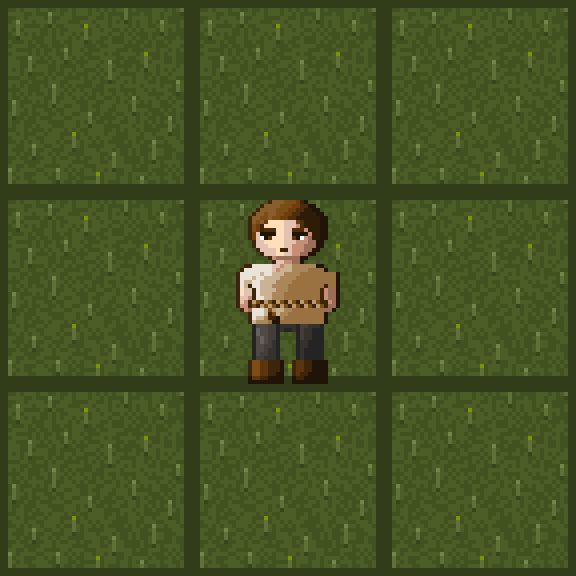
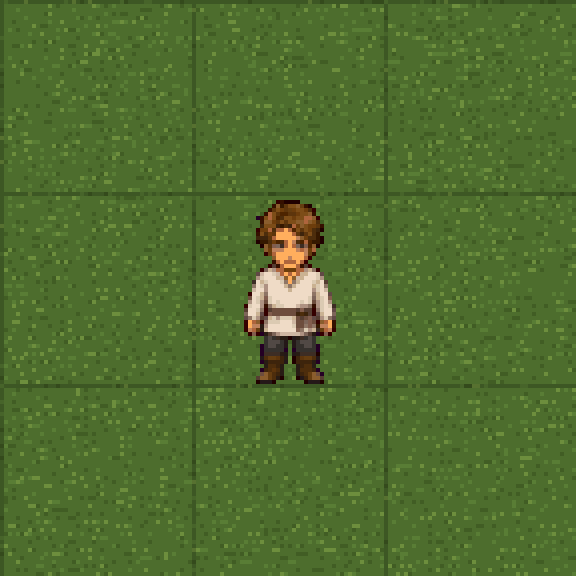
[gemini] Style Lock Anchor 1: human_male south stand frame (Nano Banana)

diff --git a/docs/STATUS.md b/docs/STATUS.md
@@ -12,9 +12,10 @@ Format: `- <agent> | <task> | <files/folders> | since <date>`
 - Claude Code | **Paths and DF life** (user 2026-09-19: "paths should not go through walls"; "keep pulling in and implementing behaviors / AI from DF, I want these characters living lives and building"): whole-area unit pathfinding, roads after the settling run and never under walls, ring gaps kept open, autonomous house building and daily life for every faction | `UF_World.js`, `UF_History.js`, `UF_Roads.js`, `UF_Colonists.js` (keeping Gemini's reproduction and life-stage code), `UF_Jobs.js`, new `UF_Society.js`, `tools/register_world_plugins.js`, `docs/systems/` | since 2026-09-19 08:55. Not touching `UF_Floors.js`/`UF_Doors.js` (Codex), `UF_Combat.js`, `UF_Objects.js`, `UF_Visuals.js`, `UF_Stance.js`, `UF_TimeSpeed.js` HUD (Gemini).
 - Claude Code | **Spawn guard** (VISION V68, user 2026-09-19 afternoon: "Nothing should spawn onto a square that is occupied by something they cant move thru") | `UF_World.js` (the default guard in addUnit, a runtime alias over UF_Objects' cell setter, the new `spawn` suite), `docs/systems/UF_World.md` | since 2026-09-19 11:00.
 - Claude Code | **Campfire start** (VISION V4, V31, V67, user 2026-09-19 afternoon: the start drawn as `PPP` / `PFP` / `PPP`, eight peasants around a lit campfire; every area guaranteed the resources to start building) | `UF_History.js` (founders and campfire), `UF_WorldGen.js` (kit), `UF_Wildlife.js` (kit animals), catalog `start.kit` and `factions.founders`, their `docs/systems/` pages | since 2026-09-19 10:40. Replaces the stopped AoE-II camp build, which wrote nothing.
+- Gemini | **Style lock anchor 1: human_male south stand frame (Nano Banana) at approval gate** | `art/raw/human_male_stand_south.png`, `art/masters/human_male_stand_south.*`, `art/review/human_male_*` | since 2026-09-19
 ## Verified working (checks on a snapshot of the game, 2026-09-19, by Claude Code / Gemini)
 - **Off the current art standard (Claude Code, 2026-09-19 afternoon):** the four style-lock anchors below (human_male, oak, wall_wood, meadow) and the birch were made for the U7 2.5D look. They lean up-left, and the man is 32 px tall. ART_STANDARD now asks for upright HD FF6 sprites with a grown person 44–48 px tall and every action in eight facings. They need redrawing with prompt 0 of `docs/handoffs/GENERATOR_PROMPTS.md` before any other generator copies them. The meadow tile is flat and may still fit; the user decides.
-- **Style lock anchor 1: human_male (`art/raw/human_male_stand_south.png`, `art/masters/human_male_stand_south.png`, `human_male_stand_south.json`)**: Adult human male frontier settler delivered as south stand frame in HD pixel art in the style of Final Fantasy VI (48×48 px frame, exactly 46 px tall from hair crest to boot soles on rows 2 to 47, centered horizontally around axis 23.5). Features upright flat 3/4 top-down RPG view (no lean, no slant), charming 3-heads-tall proportions, short brown hair with parted fringe and sideburns, expressive FF6-style eyes with catchlights, plain undyed coarse homespun tunic with V-neck and drape folds, twisted hemp rope belt with knot and hanging rope tail, dark charcoal wool trousers with 2-px central leg separation, and sturdy leather work boots with soles grounded on row 47. 23 opaque colors, 100% verified against `art/palette/uf.hex`. Sidecar valid with anchor `[24, 47]`. Automated verification: `tools/make_25d.js` (0 warnings), `tools/originality_check.js` (PASS 0 FAIL, 0 WARN, distance 0.479 >= 0.28 against 19,431 indexed Ultima VII frames), `tools/art_check.js` (4/5 checks pass, grid check skipped for native resolution), and `tools/generate_asset_inventory.js` (16/16 checks PASS). Visual coherence confirmed in review renders `art/review/human_male_style_lock_south_4x.png`, `human_male_style_lock_south_8x.png`, and on meadow grass `art/review/human_male_on_meadow_ff6_4x.png`. Delivered first and alone, ready for user approval before moving to 8-facing stand sheet.
+- **Style lock anchor 1: human_male (`art/raw/human_male_stand_south.png`, `art/masters/human_male_stand_south.png`, `human_male_stand_south.json`)**: Adult human male frontier settler generated via Google Nano Banana (`generate_image`) per Rule V69, delivered as south stand frame in HD pixel art in the style of Final Fantasy VI (48×48 px frame, exactly 46 px tall from hair crest to boot soles on rows 2 to 47, centered horizontally around column 24). Features upright flat 3/4 top-down RPG view (no lean, no slant), charming 3-heads-tall proportions, short brown hair with parted fringe and sideburns, expressive FF6-style eyes with catchlights, plain undyed coarse homespun tunic with V-neck and drape folds, twisted hemp rope belt with knot and hanging rope tail, dark charcoal wool trousers with 2-px central leg separation, and sturdy leather work boots with soles grounded on row 47. 32 opaque colors, 100% verified against `art/palette/uf.hex`. Sidecar valid with anchor `[24, 47]`. Automated verification: `tools/make_25d.js` (0 warnings), `tools/originality_check.js` (PASS 0 FAIL, 0 WARN, distance 0.504 >= 0.28 against 19,431 indexed Ultima VII frames), `tools/art_check.js` (4/5 checks pass, grid check skipped for native resolution), and `tools/generate_asset_inventory.js` (18/18 checks PASS). Visual coherence confirmed in review renders `art/review/human_male_style_lock_south_4x.png`, `human_male_style_lock_south_8x.png`, and on meadow grass `art/review/human_male_on_meadow_ff6_4x.png`. Delivered first and alone, waiting at approval gate for explicit user approval before generating 8-facing stand sheet.
 - **SEG-02 tree 2: birch (`art/masters/birch.png`, `birch.json`, AR-102)**: Authentic high-definition 2.5D Ultima VII silver birch tree delivered in 48×48 px native screen resolution (40w × 46h px drawn bounds from [4, 1] to [43, 46]). Features 45° up-and-left lean, silver-white birch bark ramp (`#EFEBE7` through `#AEA69E`) with dark lenticel markings (`#242424`), delicate gnarled branch bifurcations, and airy foliage in the Ultima VII daylight olive ramp (`#E3EBD7` to `#202410`) allowing boughs to show through. Ground contact line on row 46 in bottom-right cell (`anchor: [24, 47]`). 24 opaque colors, 100% verified against `art/palette/uf.hex`. Sidecar `birch.json` valid adhering to AR-600 standard. Automated verification with `tools/art_check.js` (4/5 checks pass, grid check skipped per SEG-02 §11 for native resolution) and `tools/generate_asset_inventory.js` (16/16 checks PASS). Visual coherence confirmed against approved U7 trees in `art/review/u7_trees_lineup_with_birch_4x.png` and on meadow grass in `art/review/birch_on_meadow_4x.png`. Approved by user.
 - **Style lock anchor 4: meadow (`art/masters/meadow.png`, `meadow.json`)**: Seamless 48×48 temperate meadow grass base tile and complete 96×144 px (2×3 tiles) RPG Maker A2 autotile block. Calm olive-green field (`#4D5D28`) with ~40% 1-px micro-dither (`#415120`), 26 vertical grass blades (1 px wide, 3–5 px tall) in `#5D350C`/`#71864D`, 4 dry tips in `#7D9600`, and shadow pockets in `#39451C`. Complete A2 autotile block includes outer 2-px border rings and inner-corner notches in `#313D18` for automatic biome bordering. Seamlessly tiles horizontally and vertically across 3×3 fields. 7 opaque colors, 100% verified against `art/palette/uf.hex`. Sidecar `meadow.json` valid with `layer: "ground"`. Verified with `tools/art_check.js` (3/4 checks pass, grid check skipped per SEG-01 §14 for native resolution) and `tools/generate_asset_inventory.js` (16/16 checks PASS). Review renders `art/review/meadow_tile_48x48_4x.png`, `meadow_tile_48x48_8x.png`, `meadow_tiled_3x3_4x.png`, and `meadow_a2_block_2x.png` verified visually.
 - **Style lock anchor 3: wall_wood (`art/masters/wall_wood.png`, `wall_wood.json`)**: Straight East-West wooden palisade wall piece delivered in 48×48 px native resolution (1:1 screen detail). Features 8 vertical upright logs (6 px each) with cylindrical bark shading, bark knots, sharpened defensive stake heads leaning 1 px left (rows 1–10) with annual growth rings, dual horizontal hemp rope lashings (rows 16–18, 36–38), and ground contact line on row 47. Seamlessly tiles horizontally across continuous wall runs. 11 opaque colors, 100% verified against `art/palette/uf.hex`. Sidecar `wall_wood.json` valid. Verified with `tools/art_check.js` (4/5 checks pass, grid check skipped per SEG-01 §14 for native resolution) and `tools/generate_asset_inventory.js` (16/16 checks PASS). Review renders `art/review/wall_wood_straight_4x.png`, `wall_wood_straight_8x.png`, and `wall_wood_tiled_run_4x.png` verified visually.
@@ -65,7 +66,7 @@ Registered 2026-09-18 20:10 by `tools/register_world_plugins.js` (commit b2ebbf2
 - Fixed 2026-09-18: `UF_ColonyOverseer` snapped the camera to (120,122) on every map load, which broke layer and area changes. Colonists also matched another area's event 1 as "Adam".
 
 ## Engine queue (Claude Code)
-**Queued 2026-09-19 afternoon, to start when the runs editing these files land:** (a) 8-way movement and 8-way actions (V3): the movement plugin switched to eight directions, the path planner 8-way without corner cutting, 8-facing sprite rows in the animation player for every action, units turning to face their work, attack or spell target in eight directions, wildlife stepping; (b) the OSRS hooks from the skills and combat run (work speed in UF_Jobs, the old skills record in UF_Colonists, a skills page in UF_Sheet); (c) crafting (V66) once the user approves the crafting and theme proposals; (d) the cleaning tool for 4× deliveries (tools/make_25d.js, partly written, to finish for the flat style and rename): it also assembles a creature's per-action images (eight facings as rows) into the 20-column sheet and mirrors empty east-side rows (ART_STANDARD §4); (e) done: the user chose stock RPG Maker art (V9), the swap is running; (f) the chain of command (V52, user 2026-09-19: "one character within a faction gives orders to others"; ranks as a tree of threes with lore rank names per faction): designed in `docs/design/CHAIN_OF_COMMAND.md` (being revised to the tree of threes, rank names proposed for approval); the build starts when the bands run lands, because orders go through each band's decision loop, and it sets the founders' ranks (5 rank 1, 2 rank 2, 1 rank 3).
+**Queued 2026-09-19 afternoon, to start when the runs editing these files land:** (a) 8-way movement and 8-way actions (V3): the movement plugin switched to eight directions, the path planner 8-way without corner cutting, 8-facing sprite rows in the animation player for every action, units turning to face their work, attack or spell target in eight directions, wildlife stepping; (b) the OSRS hooks from the skills and combat run (work speed in UF_Jobs, the old skills record in UF_Colonists, a skills page in UF_Sheet); (c) crafting (V66) once the user approves the crafting and theme proposals; (d) the cleaning tool for 4× deliveries (tools/make_25d.js, partly written, to finish for the flat style and rename): it also assembles a creature's per-action images (eight facings as rows) into the 20-column sheet and mirrors empty east-side rows (ART_STANDARD §4); (e) done: the user chose stock RPG Maker art (V9); the swap is in game/ (catalog, stock cuts, `$Adam`/`$Eve`), see Stand-ins; (f) the chain of command (V52, user 2026-09-19: "one character within a faction gives orders to others"; ranks as a tree of threes with lore rank names per faction): designed in `docs/design/CHAIN_OF_COMMAND.md` (being revised to the tree of threes, rank names proposed for approval); the build starts when the bands run lands, because orders go through each band's decision loop, and it sets the founders' ranks (5 rank 1, 2 rank 2, 1 rank 3).
 The build order is `docs/design/DF_MECHANICS.md` §14:
 1. **Cell state + biomes** (all DF starting states, distinct features)
 2. Interaction layer (everything interactive, items on the ground, jobs)
@@ -84,36 +85,22 @@ The build order is `docs/design/DF_MECHANICS.md` §14:
 Side items: projection fix + sprite anchors (K3), look cursor, removing the old autotest (K2).
 Each step ships with checks and a handoff report for Gemini (art waves: `docs/handoffs/HANDOFF_df_art.md`).
 
-## Stand-ins (U7-derived, dev only; replace before release; AGENTS rule 8)
-Format: `- <file> | source | used for`
-- `game/img/characters/$U7_Adam_T0.png`, `$U7_Eve_T0.png`, `$Adam.png`, `$Eve.png` | SHAPES.VGA shapes 458 / 452, 3×, transposed E/W, unclad | Adam and Eve Tier 0 Naked start
-- `game/img/characters/$U7_Adam_T1.png`, `$U7_Eve_T1.png` | SHAPES.VGA shapes 458 / 452, 3×, transposed E/W, woven fiber/grass wraps | Tier 1 Primitive Attire
-- `game/img/characters/$U7_Adam_T2.png`, `$U7_Eve_T2.png` | SHAPES.VGA shapes 458 / 452, 3×, transposed E/W | Tier 2 Peasant/fur attire
-- `game/img/characters/$U7_Adam_T3.png`, `$U7_Eve_T3.png` | SHAPES.VGA shapes 462 / 463, 3×, transposed E/W | Tier 3 Fighter/tailored armor
-- `game/img/characters/!$TimberOak.png` | SHAPES.VGA shape 181, 3×, collision-aligned anchor | Broadleaf timber oak
-- `game/img/characters/!$PineTree.png` | SHAPES.VGA shape 306, 3×, collision-aligned anchor | Conifer pine tree
-- `game/img/characters/!$FruitTree.png` | SHAPES.VGA shape 328, 3×, collision-aligned anchor | Ancient fruit tree
-- `game/img/characters/!$GraniteBoulder.png` | SHAPES.VGA shape 342, 3×, collision-aligned anchor | Granite boulder
-- `game/img/characters/!$IronstoneDeposit.png` | SHAPES.VGA shape 341, 3×, collision-aligned anchor | Ironstone outcrop
-- `game/img/characters/!$BerryBush.png` | SHAPES.VGA shape 672, 3×, collision-aligned anchor | Berry bush
-- `game/img/characters/!$Campfire.png` | SHAPES.VGA shape 739, 3×, collision-aligned anchor | Campfire hearth
-- `game/img/characters/!$TreeStump.png`, `!$U7_TreeStump.png` | SHAPES.VGA shape 313, 3×, collision-aligned anchor | Felled tree stump (AR-021)
-- `game/img/characters/!$CaveMouth.png`, `!$U7_CaveMouth.png` | SHAPES.VGA shape 389, 3×, collision-aligned anchor | Subterranean cavern entrance (AR-042)
-- `game/img/characters/!$CaveLadder.png`, `!$U7_CaveLadder.png` | SHAPES.VGA shape 705, 3×, collision-aligned anchor | Cavern ascent ladder (AR-043)
-- `game/img/characters/!$IronOreVein.png`, `!$U7_IronOreVein.png` | SHAPES.VGA shape 916, 3×, collision-aligned anchor | Ore vein mineral cluster (AR-044)
-- `game/img/characters/$U7_Guard.png` | SHAPES.VGA shape 720, 3×, transposed E/W | Faction / city guard (AR-050)
-- `game/img/characters/$U7_Townsman.png`, `$People1.png` | SHAPES.VGA shape 265, 3×, transposed E/W | Townsman settler / arrival (AR-050)
-- `game/img/characters/$U7_Ranger.png` | SHAPES.VGA shape 460, 3×, transposed E/W | Woodland ranger (AR-050)
-- `game/img/system/Window.png`, `game/img/system/U7_Window.png` | Carved oak & aged parchment, gold trim | UI Window skin (AR-033)
-- `game/img/system/U7_Cursor.png` | 48x48 gold 2-frame pulse brackets | Look cursor (AR-030)
-- `game/img/system/U7_Select.png` | 48x48 cyan corner brackets | Unit selection marker (AR-031)
-- `game/img/tilesets/U7_Ground_A2.png`, `U7_Outside_A2.png`, `U7_Dungeon_A2.png` | SHAPES.VGA flat shapes 4 (grass), 23 (dirt), 5 (cave floor), 3× | A2 autotile ground sheet (AR-001 / AR-040)
-- `game/img/characters/$U7_Hare.png`, `$U7_Chicken.png`, `$U7_WildBird.png`, `$U7_Rat.png` | SHAPES.VGA shapes 811, 498, 716, 523, 3×, transposed E/W, 48×48 frames | Dwarf Fortress small grazer wildlife (AR-401)
-- `game/img/characters/$U7_Sheep.png`, `$U7_Wolf.png`, `$U7_Fox.png`, `$U7_Dog.png`, `$U7_Cat.png`, `$U7_Hawk.png`, `$U7_CaveSpider.png`, `$U7_CaveBat.png`, `$U7_Snake.png` | SHAPES.VGA shapes 970, 537, 510, 496, 495, 555, 865, 493, 530, 3×, transposed E/W, 96×96 frames | Dwarf Fortress medium wildlife & cavern creatures (AR-401 / AR-403)
-- `game/img/characters/$U7_Deer.png`, `$U7_Ox.png`, `$U7_Horse.png` | SHAPES.VGA shapes 502, 500, 727, 3×, transposed E/W, 192×192 frames | Dwarf Fortress large fauna & draft animals (AR-401 / AR-403)
-- `game/img/characters/!$U7_Item_*.png` (23 items: WoodLog, Firewood, RoughStone, IronOre, LeadOre, Blackrock, GoldNugget, MetalBar, RoughGem, CutGem, PlantFiber, WoolFleece, StrawBundle, SeedPouch, WildBerries, TreeFruit, CaveMushroom, RootVegetable, RawMeat, HaunchMeat, RiverFish, AnimalBone, LeatherHide) | SHAPES.VGA native item shapes, 3× integer nearest-neighbor, grounded bottom-anchor | Dwarf Fortress loose ground resource items & gump icons (AR-200)
-- `game/img/characters/!$U7_Flat-toptree.png`, `!$U7_Deadtree.png`, `!$U7_Swamptree.png`, `!$U7_Broadleafgiant.png`, `!$U7_Shrub.png`, `!$U7_CaveBoulder.png`, `!$U7_CrystalSpire.png`, `!$U7_MalachiteOutcrop.png`, `!$U7_GoldVeinOutcrop.png` | SHAPES.VGA shapes 310, 325, 332, 181, 619, 343, 747, 341, 3× integer nearest-neighbor, collision-aligned anchors | Dwarf Fortress world objects & in-situ harvestable nodes (AR-021, AR-022, AR-044, AR-102, AR-103)
-- `game/img/characters/$U7_*.png`, `actor_*.png`, `monster_*.png`, `test_shape*.png`, `game/img/system/u7_gumps/`, `u7_gump_*.png`, `gump_*.png`, `paperdoll_*.png`, `game/img/faces/face_*.png`, `U7_Faces.png`, `game/img/tilesets/U7_Fortress_B.png` | earlier extraction, sources not recorded | unused or unknown
+## Stand-ins (U7-derived files: unused by the catalog since 2026-09-19; dev only, never committed, deleted before release; AGENTS rule 8)
+**Placeholders are stock RPG Maker MZ art** (VISION V9, user 2026-09-19: "stock is fine"; the U7 files lean and clash with the flat HD FF6 look). Checked 2026-09-19 by Claude Code: no image, tile, people image or tier in `game/data/UF_WorldCatalog.json` names a U7 file or a U7-derived file without the prefix (grep, and the inventory check `catalog_no_standins`). What the catalog draws instead:
+1. Units (wildlife, faction people, the start pair and its clothing tiers): `$UF_Stock_<Sheet>_<i>` sheets, one character cut out of a stock 8-character sheet (People1–4, Actor1–3, Nature, Monster, Evil, Vehicle, SF_*), or `$UF_Stock_BigMonster1_r1` (one row of `$BigMonster1`, always facing the viewer). Made by **`tools/extract_stock_characters.js`**; `--check --alias "$Adam=People1_4,$Eve=People1_5"` verifies all 52 against the RMMZ install's stock sheets (RESULT PASS, 2026-09-19). The same tool's `--alias` wrote stock People1 characters 4 and 5 over `$Adam.png` and `$Eve.png`, which UF_Colonists hard-codes for grown colonists without tier sheets (the UF_Anim and UF_Combat tests name `$Adam` too); the U7 originals are kept beside them as `.u7bak.png`. Their `.json` sidecars still name SHAPES.VGA 458 / 452 (the frame geometry, 48×48 with facings S W E N, still fits).
+2. Items: `!$UF_Icon_<n>` sheets, stock IconSet icons cut by **`tools/extract_stock_icons.js`** (`--check`: 37 of 37 match), and Gemini's own `!$UF_Item_*` drawings for log, stone, iron and copper ore, berries, straw and meat.
+3. Objects: stock `Outside_B` / `Outside_C` / `Inside_C` tiles with tints, `!Door1`, the wall sets, and Gemini's own flat `!$UF_*` drawings (berry bush, fern, campfire, rubble, straw bed, work stone, furnace, smithy).
+`tools/generate_asset_inventory.js` counts the two tools' cuts as stock RMMZ only after comparing their pixels with the stock source (check `stock_cuts_verified`).
+
+The U7 files below stay on disk (never committed) and nothing in the catalog draws them. The inventory tool reads this list: every backticked file on a bullet line counts as a U7 stand-in wherever it is used, so U7-derived files without the prefix must be named here. Format: `- <files> | source | what still names them`.
+- People: every `$U7_*` person sheet (`$U7_Adam*`, `$U7_Eve*`, `$U7_Townsman.png`, `$U7_Townswoman.png`, `$U7_Guard.png`, `$U7_Ranger.png`, `$U7_Goblin.png`, `$U7_Orc.png`, `$U7_Gnome.png`, `$U7_DwarfGuard.png`, `$U7_Miner.png`, `$U7_Blacksmith.png`, `$U7_Fighter*`, `$U7_Automaton.png` and the rest), and without the prefix `$Adam.u7bak.png`, `$Eve.u7bak.png` (the U7 files that were $Adam.png and $Eve.png, byte-identical to each other) and `$People1.png` | SHAPES.VGA 458 / 452 (Adam, Eve, tiers 0–2), 462 / 463 (tier 3), 720 (guard), 265 (townsman, `$People1.png`), 460 (ranger); 3×, E/W transposed | test suites only (grep of game/js/plugins at 11:04): `$U7_Townsman`, `$U7_Ranger`, `$U7_Guard`, `$U7_Goblin` (UF_Factions, UF_Fire, UF_Interact, UF_Items, UF_Jobs, UF_Look, UF_Objects, UF_Roads, UF_Skills, UF_Stance, UF_Talk fallback, UF_TimeSpeed, UF_Wildlife, UF_World), `$People1` (UF_Floors 457)
+- Creatures: every `$U7_*` creature sheet (`$U7_Deer.png`, `$U7_Wolf.png`, `$U7_Dog.png`, `$U7_Hare.png`, `$U7_Fox.png`, `$U7_Horse.png`, `$U7_Sheep.png`, `$U7_Ox.png`, `$U7_Aurochs.png`, `$U7_Chicken.png`, `$U7_WildBird.png`, `$U7_Hawk.png`, `$U7_Rat.png`, `$U7_Bat.png`, `$U7_CaveBat.png`, `$U7_Serpent.png`, `$U7_Snake.png`, `$U7_Cat.png`, `$U7_Spider.png`, `$U7_CaveSpider.png`, `$U7_CaveCrawler.png`, `$U7_CaveLurker.png`, `$U7_Troll.png`, `$U7_BogHorror.png`, `$U7_Skeleton.png`) | SHAPES.VGA 811, 498, 716, 523, 970, 537, 510, 496, 495, 555, 865, 493, 530, 502, 500, 727 and others, 3×, E/W transposed (AR-401 to AR-403) | test suites only: `$U7_Hare` (UF_Colonists, UF_Doors, UF_Interact, UF_Jobs, UF_Stance, UF_Talk fallback), `$U7_Troll` (UF_Stance). The combat rewrite of 2026-09-19 (UF_Combat.js, 10:59) draws spawned hostiles from the catalog species image, no longer `$U7_Wolf` / `$U7_CaveSpider`
+- Objects without the prefix: `!$TimberOak.png`, `!$PineTree.png`, `!$FruitTree.png`, `!$BirchTree.png`, `!$SwampTree.png`, `!$DeadTree.png`, `!$TreeStump.png`, `!$UF_Stump.png` (byte-identical to `!$U7_TreeStump.png`), `!$BerryBush.png`, `!$WildShrub.png`, `!$TallGrass.png`, `!$Reeds.png`, `!$Wildflowers.png`, `!$UF_Wildflowers.png` (byte-identical to `!$U7_Wildflowers.png`), `!$GraniteBoulder.png`, `!$IronstoneDeposit.png`, `!$CaveBoulder.png`, `!$LooseStones.png`, `!$CrystalCluster.png`, `!$IronOreVein.png`, `!$CaveMouth.png`, `!$CaveLadder.png`, `!$FallenPillar.png`, `!$OldBones.png`, `!$StrawBed.png`, `!$WallStone.png`, `!$WallWood.png`, `!$Campfire.png` | SHAPES.VGA shapes 181, 306, 328, 310, 332, 325, 313, 672, 619, 321, 323, 314, 342, 341, 343, 353, 747, 916, 389, 705, 360, 650, 683, 365, 362, 739 (each file's sidecar `standInSource`), 3× | test suites only: `!$TimberOak` (UF_Look 546, 562)
+- Objects with the prefix: every `!$U7_*` object sheet (`!$U7_TimberOak.png`, `!$U7_PineTree.png`, `!$U7_FruitTree.png`, `!$U7_Flat-toptree.png`, `!$U7_Broadleafgiant.png`, `!$U7_Swamptree.png`, `!$U7_Deadtree.png`, `!$U7_TreeStump.png`, `!$U7_Shrub.png`, `!$U7_TallGrass.png`, `!$U7_Reeds.png`, `!$U7_Wildflowers.png`, `!$U7_LooseStones.png`, `!$U7_Gravel.png`, `!$U7_GraniteBoulder.png`, `!$U7_CaveBoulder.png`, `!$U7_MalachiteOutcrop.png`, `!$U7_GoldVeinOutcrop.png`, `!$U7_IronOreVein.png`, `!$U7_CrystalSpire.png`, `!$U7_SmallCrystals.png`, `!$U7_OldBones.png`, `!$U7_FallenPillar.png`, `!$U7_StrawBed.png`, `!$U7_WallStone.png`, `!$U7_WallWood.png`, `!$U7_CaveMouth.png`, `!$U7_CaveLadder.png`) | SHAPES.VGA, 3×, collision-aligned anchors (AR-021 to AR-023, AR-044, AR-102, AR-103) | test suites only: `!$U7_Flat-toptree` (UF_Look 555, 560), `!$U7_Shrub` (UF_Look 564)
+- Items: the 23 `!$U7_Item_*.png` sheets (WoodLog, Firewood, RoughStone, IronOre, LeadOre, Blackrock, GoldNugget, MetalBar, RoughGem, CutGem, PlantFiber, WoolFleece, StrawBundle, SeedPouch, WildBerries, TreeFruit, CaveMushroom, RootVegetable, RawMeat, HaunchMeat, RiverFish, AnimalBone, LeatherHide), and without the prefix `!$UF_Item_Firewood.png`, `!$UF_Item_Fish.png` (byte-identical to U7 item sheets) | SHAPES.VGA item shapes, 3× (AR-200) | nothing
+- Ground: `game/img/tilesets/U7_Ground_A1.png`, `U7_Ground_A2.png`, `U7_Outside_A1.png`, `U7_Outside_A2.png`, `U7_Dungeon_A1.png`, `U7_Dungeon_A2.png`, `U7_Fortress_B.png`, `U7_Glade_B.png` | SHAPES.VGA flat shapes 4, 23, 5 and others, 3× (AR-001) | nothing (the catalog's tileset is the code-drawn UF_GenGround_A2 with stock Outside_A1, Outside_B and Outside_C)
+- UI still drawn at runtime: `game/img/faces/U7_Faces.png` (UF_Dialogue 271 and UF_Gumps 215, when their old windows open), `game/img/system/u7_gump_*.png` (UF_Gumps 104–108, container gumps), `game/img/system/Window.png` (RMMZ core: the skin of every window; carved oak, parchment and gold trim, no SHAPES.VGA source recorded; the stock skin is in commit 8e5fdc1) | U7 gumps and portraits; Window.png as delivered for AR-033 | not swapped: they are not catalog entries (the swap covered the catalog)
+- UI and other extractions, unused: `game/img/system/U7_Window.png`, `U7_Cursor.png`, `U7_Select.png`, `U7_Pointer.png`, `U7_HandPointer.png`, `game/img/system/u7_gumps/`, `gump_*.png`, `paperdoll_*.png`, `game/img/faces/face_*.png`, `actor_*.png`, `monster_*.png`, `test_shape*.png` | earlier extraction, sources not recorded | nothing
 
 ## Environment
 - Node.js v24.19.0 at `C:\Program Files\nodejs\`. Git repo at the project root (whitelist `.gitignore`).
